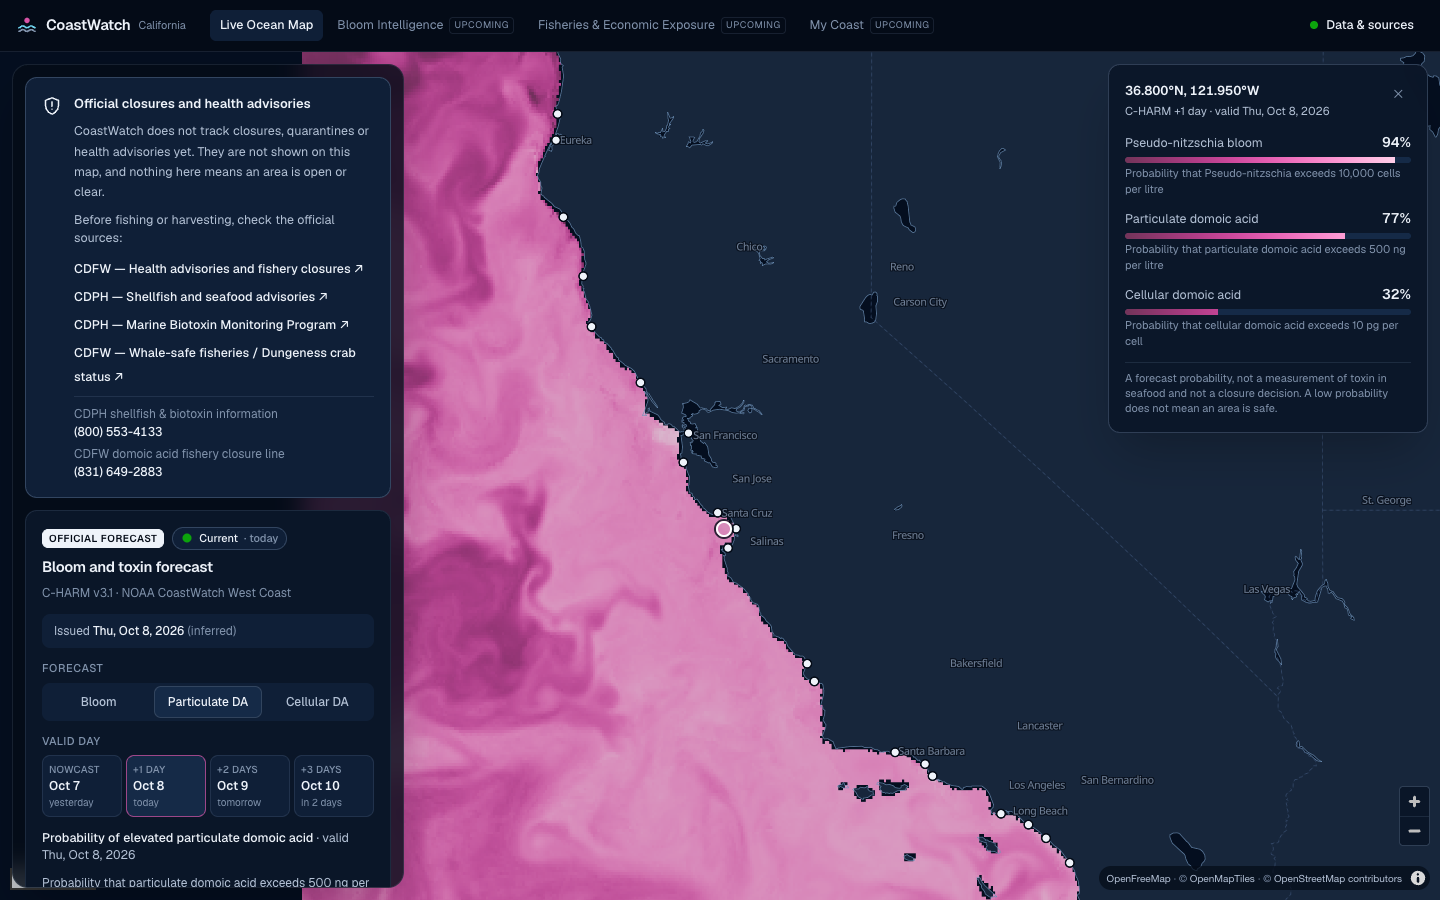
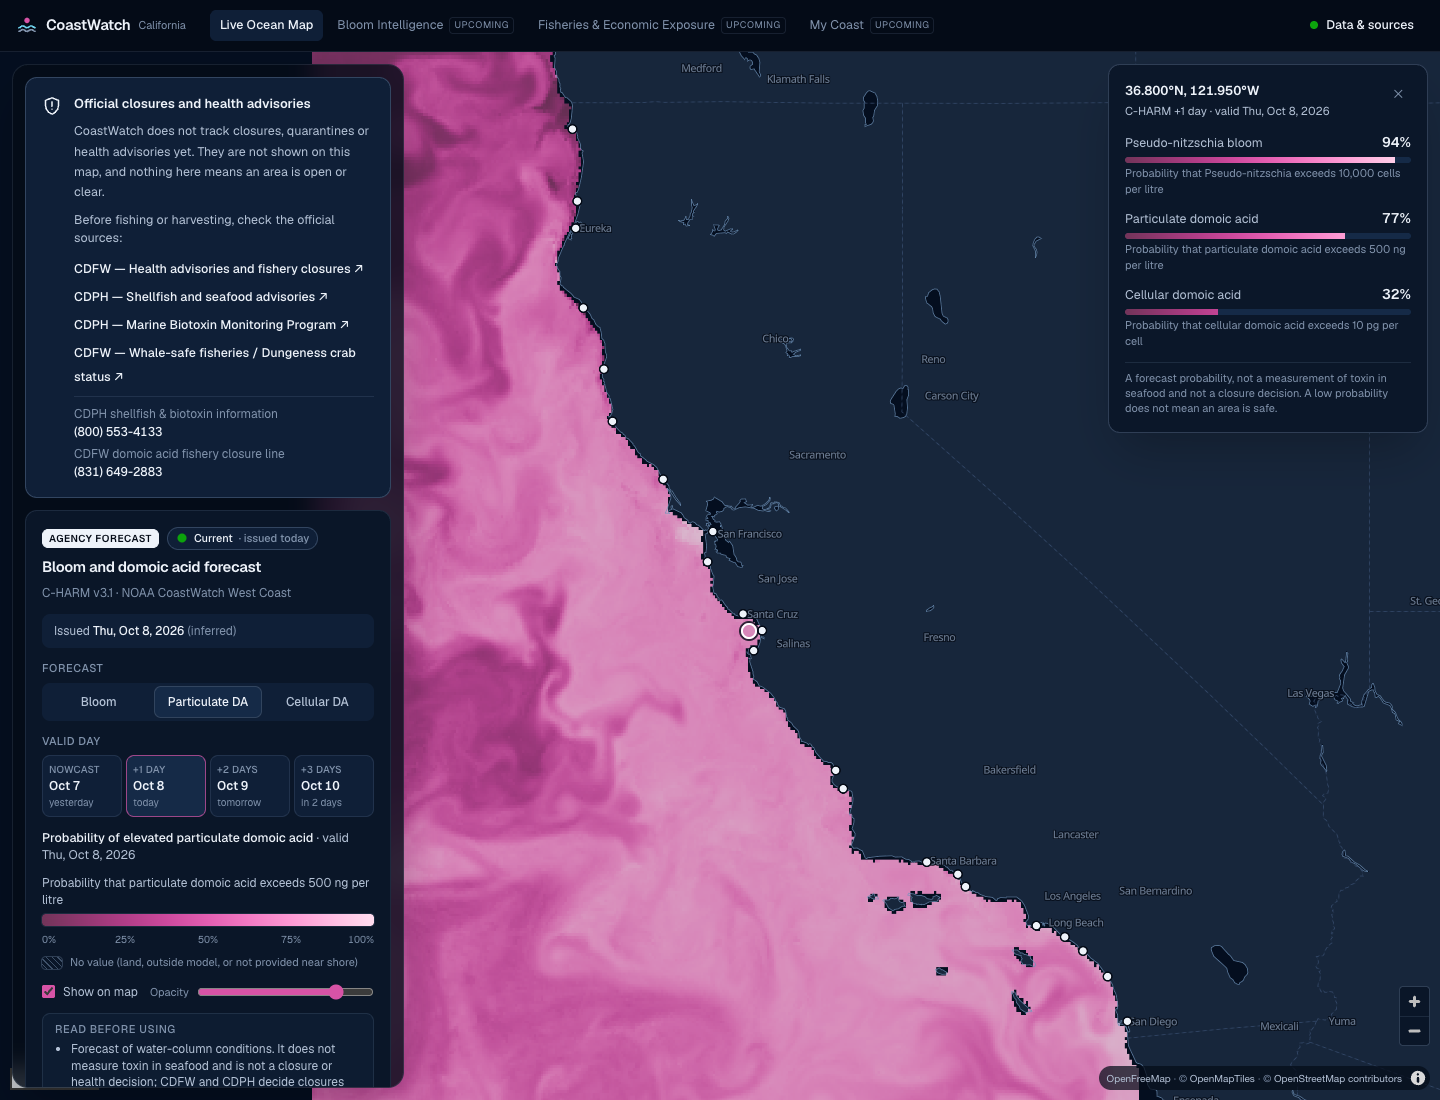
docs(coastwatch): integration gate results; remove temporary data trigger
- 07: GitHub CI runs, real publishing verification, failure drill, review
  changes, remaining blockers, Pages setup steps, merge recommendation
- 08: scientific review checklist for a HAB reviewer
- final screenshots from a production build reading the published data
- data workflow: remove the temporary feature-branch push trigger
  (schedule and manual dispatch only)

diff --git a/docs/coastwatch/07-m1-implementation.md b/docs/coastwatch/07-m1-implementation.md
@@ -1,6 +1,6 @@
 # 07 — Milestone 1 implementation: honest baseline + live C-HARM forecast
 
-Branch `feat/coastwatch-m1-baseline` (not merged, not deployed). Built and verified 2026-10-08.
+Branch `feat/coastwatch-m1-baseline` (not merged; website not deployed). Built and verified 2026-10-08. Integration gate (GitHub CI + real data publishing) completed the same day — see §7.
 
 ## 1. What works
 
@@ -16,7 +16,7 @@ Branch `feat/coastwatch-m1-baseline` (not merged, not deployed). Built and verif
 | Freshness | current / stale / historical / unavailable computed in the browser per source policy; failed updates shown in a banner and on `/sources` | unit tests at day boundaries; e2e with a frozen clock |
 | Hierarchy | Official-status card first (closures not tracked yet; official links and hotlines), then official forecast, then observation | e2e DOM-order test |
 | Design | Navy MapLibre basemap (OpenFreeMap), magenta single-hue probability ramp (monotone lightness, 0% at 2.16:1 against water), Geist type, desktop floating panel, mobile stacked layout, Upcoming nav items not linked | screenshots in [`m1/`](m1/) |
-| Scheduling | `coastwatch-data.yml` every 6 h → `coastwatch-data` branch; refuses to publish if live verification fails. `coastwatch-ci.yml` runs all checks | inert until merged (scheduled workflows run from the default branch) |
+| Scheduling and publishing | `coastwatch-data.yml` every 6 h: build (read token) → publish (write token, no repo code) → check public URL (read token). `coastwatch-ci.yml` runs all checks | Both ran green on GitHub (§7) |
 
 ## 2. C-HARM geographic verification (live)
 
@@ -65,8 +65,8 @@ Coverage of the requested areas: schema validity (Python + Ajv, malformed manife
 1. **C-HARM issue date is inferred** (nowcast valid day + 1). Derived from metadata patterns on 2026-10-08, not documented by the producer. Labelled "(inferred)" everywhere.
 2. **No published skill assessment for C-HARM v3.1** was found; the app cites the v1 assessment (Anderson et al. 2016) and states this.
 3. **Official closures and advisories are not ingested.** The card says so and links to CDFW/CDPH. Curated records are M2.
-4. **CI has not run.** Workflows were written and their commands run locally, but GitHub Actions has not executed them. Linux headless Chromium uses software WebGL; locally, SwiftShader did not draw vector layers (rasters and map sources work). The e2e tests do not depend on vector-layer pixels, but this is unverified on CI.
-5. **Data publishing to the `coastwatch-data` branch is untested end to end** (requires merge to the default branch, and a public repository for raw.githubusercontent.com access).
+4. *(Resolved §7)* CI runs green on GitHub, including Playwright on Linux headless Chromium.
+5. *(Resolved §7)* Publishing to the `coastwatch-data` branch tested end to end on GitHub.
 6. **Basemap depends on OpenFreeMap** (free, no SLA). If it is unreachable, the forecast still renders on the land-coloured background without coastline or labels.
 7. **NASA GIBS legend SVGs are ~600 KB** and drawn for a light background (shown on a white chip). Satellite chlorophyll also appears over inland lakes, as NASA provides it.
 8. **Mobile:** the panel stacks below a 58vh map rather than a bottom sheet; the expanded attribution can overlap the scale bar on narrow screens.
@@ -97,3 +97,75 @@ npm run lint && npm run typecheck && npm test && npm run test:e2e
 ## 6. Merge readiness
 
 Ready for review, not for public deployment. Before merging: run CI on GitHub (item 4) and have a domain reviewer read the forecast copy. Before deploying publicly: the steps in `06-development-plan.md` §6, including scientific review of the copy, confirming the data branch publishes, and deciding whether the curated official-status records (M2) must ship first.
+
+## 7. Integration gate (2026-10-08)
+
+### 7.1 GitHub CI
+
+| Workflow | Run | Result |
+|---|---|---|
+| CoastWatch CI (pipeline + web) | [37827522709](https://github.com/yashnil/habs-forecast/actions/runs/37827522709) | ✅ pipeline: 53 passed, 1 deselected (the live test; its equivalent runs in the data workflow) · schema and fixture drift checks clean · web: lint, typecheck, 40 vitest, production build, 15 Playwright e2e on headless Chromium |
+| CoastWatch data refresh | [37827522650](https://github.com/yashnil/habs-forecast/actions/runs/37827522650) | ✅ build → publish → public-URL check (details below) |
+
+The final commits were re-run on CI after this report; see the pull request checks for the latest runs.
+
+Permissions: repository default is read-only (`default_workflow_permissions: read`). CI declares `contents: read` and does not persist credentials. The data workflow declares `permissions: {}` at the top; only the `publish` job has `contents: write`, and it checks out no repository code and runs no third-party build tools (it downloads the verified artifact and pushes it). No tests are skipped; the only deselected test is the live end-to-end check, which the data workflow covers with `cwp verify-charm`.
+
+### 7.2 Real data publishing
+
+Path verified on GitHub runners: ERDDAP / NASA GIBS / CDFW → `cwp run` → validation → `cwp verify-charm` (156/156 against ERDDAP) → `cwp check-published` (26/26 files) → `cwp guard-publish` → artifact → force-replace of the `coastwatch-data` branch (single commit) → `cwp check-published` against the public URL with the expected run id (26/26, CORS OK).
+
+**Public data URL** (no account changes were needed; the repository was already public):
+`https://raw.githubusercontent.com/yashnil/habs-forecast/coastwatch-data/v1/manifest.json`
+
+| Check | Result |
+|---|---|
+| Manifest and assets load from published URLs | ✅ HTTP 200; independently re-checked from a workstation with `cwp check-published` |
+| CORS | ✅ `access-control-allow-origin: *` on manifest, PNGs and grids; PNGs served as `image/png`; manifest as `text/plain` (fine for server-side `fetch().json()`) |
+| Every manifest reference exists and decodes | ✅ 12 images (sizes match), 12 grids (decoded length matches), ports |
+| Atomic versions | ✅ assets are content-addressed (`charm/<issued>/lead<k>-<sha>/…`, `ports-<sha>.geojson`); a new manifest references only new paths, and the previous manifest's files are kept one more run to cover the 5-minute CDN cache, so a client never mixes versions. The branch update is a single ref update. Tests: `pipeline/tests/test_publish.py` |
+| Failed refresh preserves last valid data without pretending it is current | ✅ Drill on the real published dataset with ERDDAP unreachable: C-HARM `outcome: failed`, `last_success_at` kept, issue date still 2026-10-08, same asset paths, dataset still passes `check-published`; verification is skipped (nothing new) so the failure status is still published. The browser then classifies by date (stale after 2 days, historical after 7) and shows the failure banner (e2e) |
+| Cannot expose unrelated repository files | ✅ The publish tree is built in a separate directory from pipeline output only; `guard-publish` rejects anything not `v1/*.{json,geojson,png,u16.gz}` (test: research code, `.env`, notes are refused); the publish job also refuses staged paths outside `v1/`. Published branch: 1 commit, 27 files, all under `v1/` |
+| Research repo not bloated by data | ✅ The data branch is a single squashed commit each run (bot force-push), so history does not accumulate in clones |
+| Production-equivalent frontend | ✅ `npm run build` + `next start` with `CW_DATA_BASE_URL` = the public URL; `npm run test:published` (Playwright): no data-unavailable or fixture banner, map image source = published content-addressed URL, inspector values decoded in the browser equal the values verified against ERDDAP, no failed cross-origin requests |
+
+**Limitation:** raw.githubusercontent.com is fine for validation and light use, but it is not a production CDN (rate limits, `text/plain` for JSON, no SLA). For public launch, publish the same artifact to **GitHub Pages** (one repository setting) or Cloudflare R2. Setup steps are in §7.5.
+
+### 7.3 Scientific and UI review outcomes
+
+Verified against the ERDDAP metadata: variable names and thresholds (`pseudo_nitzschia` > 10,000 cells/L, `particulate_domoic` > 500 ng/L, `cellular_domoic` > 10 pg/cell), probability scale 0–1 shown as 0–100% on a fixed legend, lead/valid dates (nowcast = 2026-10-07, +3 = 2026-10-10), inferred issue date labelled, freshness by issue date. Monterey mid-bay inspector (94% / 77% / 32%) equals ERDDAP.
+
+Changes made in this review:
+- Badge "Official forecast" → **"Agency forecast"** so that a NOAA model forecast cannot be confused with an official closure or advisory.
+- Heading "Bloom and toxin forecast" → **"Bloom and domoic acid forecast"** (C-HARM predicts DA in the water column, not toxicity of seafood).
+- **All caveats are visible without expanding** ("Read before using" box for C-HARM; caveat list for satellite chlorophyll); source and provenance stay in a collapsible section. Test: every published caveat must be visible.
+- Freshness badge says what the age refers to ("Current · issued today", "observed 1 day ago").
+- Mobile: upcoming experiences collapse to "+ 3 upcoming"; scale bar hidden on narrow screens to avoid overlapping the attribution.
+
+Checked: no copy asserts toxicity of seafood, safety, or fishing productivity (automated phrase checks over copy, artifacts and components). Reviewer checklist: [`08-scientific-review-checklist.md`](08-scientific-review-checklist.md).
+
+Final screenshots (production build reading the published dataset): [`m1/01-live-map-desktop.png`](m1/01-live-map-desktop.png), [`02-inspector-monterey.png`](m1/02-inspector-monterey.png), [`03-satellite-chlorophyll.png`](m1/03-satellite-chlorophyll.png), [`04-mobile-nearshore.png`](m1/04-mobile-nearshore.png), [`05-data-and-sources.png`](m1/05-data-and-sources.png).
+
+### 7.4 Remaining blockers before public launch
+
+1. **Scientific sign-off** on the C-HARM copy (checklist 08). Required before the site is public.
+2. **Production data host:** move from raw.githubusercontent.com to GitHub Pages or R2 (requires a repository setting or an account; see 7.5).
+3. **Web hosting** not set up (deliberately not deployed).
+4. **Official closures and advisories** are linked, not ingested (M2). Decide whether launch waits for M2.
+5. Known issues 1–3 and 6–11 in §4 remain (inferred issue date, no v3.1 skill paper, OpenFreeMap dependency, GIBS legend size, mobile panel layout, no full accessibility audit).
+
+### 7.5 Steps that need you (not done here)
+
+**GitHub Pages as the data host (recommended before launch):**
+1. Repository → Settings → Pages → Build and deployment → Source: **GitHub Actions**.
+2. Tell me when that's done; the data workflow then gets a `deploy-pages` job (`actions/upload-pages-artifact` + `actions/deploy-pages`, with `pages: write` and `id-token: write` on that job only). The data URL becomes `https://yashnil.github.io/habs-forecast/v1/`, and the app's `CW_DATA_BASE_URL` changes to match. Note that this creates a public `github.io` site containing only the data artifacts.
+
+**Web hosting (when you decide to launch):** connect `coastwatch-web/` to Vercel or Cloudflare Pages, set `CW_DATA_BASE_URL` to the data URL, and build with Node 22.
+
+### 7.6 Commits in the integration gate
+
+See `git log main..feat/coastwatch-m1-baseline`. Gate-specific commits: atomic publishing and published-data checks; review fixes and production-equivalent test; this report.
+
+### 7.7 Merge recommendation
+
+All technical gates pass: CI green on GitHub, real publishing verified end to end, failure drill passed, production-equivalent frontend verified. **Ready to merge into `main`** once the PR checks pass. Merging enables the six-hourly data refresh on `main`, which publishes data only, not the website. **Not ready for public launch** until scientific sign-off and a production data host are in place (§7.4).

diff --git a/docs/coastwatch/08-scientific-review-checklist.md b/docs/coastwatch/08-scientific-review-checklist.md
@@ -1,0 +1,52 @@
+# 08 — Scientific review checklist (C-HARM layer, Milestone 1)
+
+For a reviewer familiar with harmful algal blooms and domoic acid on the US West Coast. About 20 minutes. Open the app (or the screenshots in [`m1/`](m1/)) and the C-HARM ERDDAP pages linked in the app. Mark each item **OK**, **Change** (with wording), or **Unsure**.
+
+## A. Variables and thresholds
+
+| # | Check | What the app says | Source of truth |
+|---|---|---|---|
+| A1 | `pseudo_nitzschia` is described correctly | "Probability that Pseudo-nitzschia exceeds 10,000 cells per litre" | ERDDAP long_name: "Probability of Pseudo-nitzschia > 10,000 cells/L" |
+| A2 | `particulate_domoic` is described correctly | "Probability that particulate domoic acid exceeds 500 ng per litre"; explainer: "domoic acid in the plankton … per litre of seawater" | "Probability of Particulate Domoic Acid > 500 nanograms/L" |
+| A3 | `cellular_domoic` is described correctly | "Probability that cellular domoic acid exceeds 10 pg per cell"; explainer: "toxin per Pseudo-nitzschia cell" | "Probability of Cellular Domoic Acid > 10 picograms/cell" |
+| A4 | Short labels are not misleading | Buttons: "Bloom", "Particulate DA", "Cellular DA"; heading "Bloom and domoic acid forecast" | — |
+| A5 | Probabilities are shown as 0–100% on a fixed scale; no rescaling per map | Legend 0, 25, 50, 75, 100% | — |
+| A6 | Is it acceptable to call a ≥ 10,000 cells/L event a "bloom"? | Uses C-HARM's own definition | Anderson et al. 2016 |
+
+## B. Time
+
+| # | Check | What the app says |
+|---|---|---|
+| B1 | Lead semantics | "Nowcast" = valid day before the run; "+1/+2/+3 days" = valid days after the nowcast |
+| B2 | Issue date inference is reasonable | "Issued … (inferred)": nowcast valid day + 1, because C-HARM publishes only valid days |
+| B3 | Freshness thresholds suit a daily product with frequent gaps | Current ≤ 1 day since issue; stale 2–7 days; historical > 7 days |
+| B4 | Missing leads | Shown as "not issued"; never filled from an older run |
+
+## C. Interpretation and caveats (all shown without expanding anything)
+
+| # | Check | Text in the app |
+|---|---|---|
+| C1 | Not a seafood toxin measurement or closure decision | "A forecast probability, not a measurement of toxin in seafood and not a closure decision." / "…CDFW and CDPH decide closures and advisories." |
+| C2 | Low ≠ safe | "A low probability does not mean an area is safe." |
+| C3 | Skill statement is honest | "Published skill assessment covers C-HARM v1 (Anderson et al. 2016); no published skill assessment for v3.1 was found." — Is there a v3 / v3.1 assessment we should cite instead (e.g., work using WCOFS)? |
+| C4 | Known weaknesses | "…salinity errors can affect domoic acid predictions and … bloom predictions include many false positives" (from the SCCOOS Dec 2022 bulletin). Still accurate? |
+| C5 | Nearshore masking | "Toxin probabilities are not provided for many cells within about 3–6 km of shore, including piers and harbours." The inspector then shows the nearest forecast cell with its distance. Is "nearest cell" appropriate, or should nearshore points show nothing? |
+| C6 | Badge wording | C-HARM is badged "Agency forecast" (not "official"), and closures are a separate "Official closures and health advisories" card stating they are not tracked yet. Is the distinction clear? |
+
+## D. Values
+
+| # | Check |
+|---|---|
+| D1 | Pick 2–3 points you know (e.g., Monterey Bay mid-bay 36.80 N 121.95 W). Compare the inspector with ERDDAP for the same valid day (link under "Source and provenance"). The automated check matched 156/156 published values against ERDDAP on 2026-10-08 (`evidence/m1-charm-verification-2026-10-08.json`). |
+| D2 | Does the spatial pattern look like the ERDDAP preview for the same day (no shift, flip, or offset)? |
+
+## E. Anything missing or overstated
+
+| # | Question |
+|---|---|
+| E1 | Any statement that implies toxicity of seafood, safety, or fishing productivity? (Automated checks forbid phrases like "safe to eat", "all clear", "go fishing", "best place to fish".) |
+| E2 | Should the CalHABMAP shore-station observations or the California HAB Bulletin be linked next to the forecast in M1? |
+| E3 | Satellite chlorophyll copy: "Chlorophyll measures algae biomass. It does not measure toxins and does not predict where fish are." Adequate? |
+| E4 | Preferred citation for C-HARM v3.1 and contact for a skill statement. |
+
+Reviewer: ____________________  Date: __________  Overall: ☐ Approve  ☐ Approve with changes  ☐ Do not publish yet

diff --git a/docs/coastwatch/README.md b/docs/coastwatch/README.md
@@ -11,6 +11,7 @@ Planning and architecture for turning `coastwatch-web/` and the HABs research in
 | [05 — Science & safety](05-science-and-safety.md) | Non-negotiable rules R1–R26 (hierarchy, chlorophyll, C-HARM, experimental models, economics, provenance) |
 | [06 — Development plan](06-development-plan.md) | Prioritized MVP list, milestones M0–M4 + P2/P3, testing & validation, deployment, risks, work not to do yet |
 | [07 — Milestone 1 implementation](07-m1-implementation.md) | What is built, verification results, tests, known issues, how to run |
+| [08 — Scientific review checklist](08-scientific-review-checklist.md) | 20-minute checklist for a HAB scientist reviewing the C-HARM layer |
 | [m1/](m1/) | Screenshots of the running app (live data, 2026-10-08) |
 | [evidence/](evidence/) | Raw verification logs from live requests (satellite, C-HARM, regulatory, economics) and the M1 C-HARM point verification |
 
